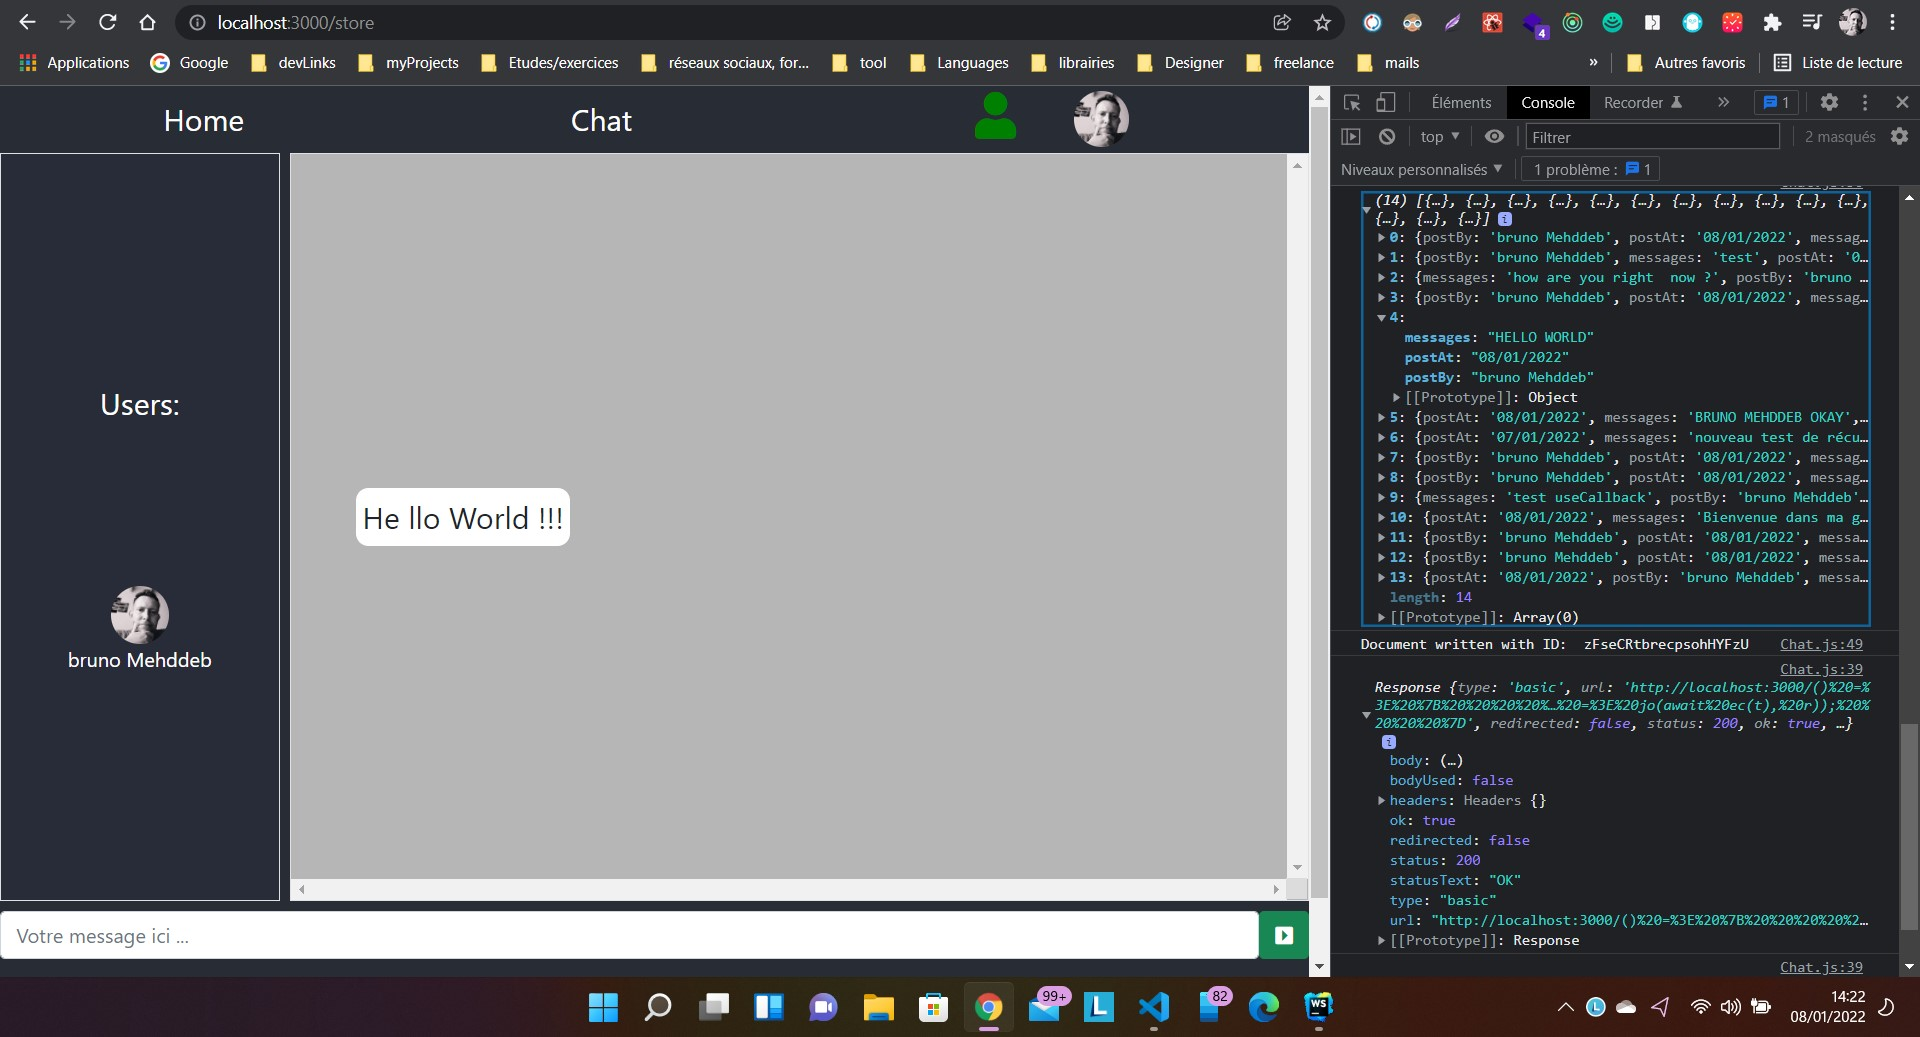
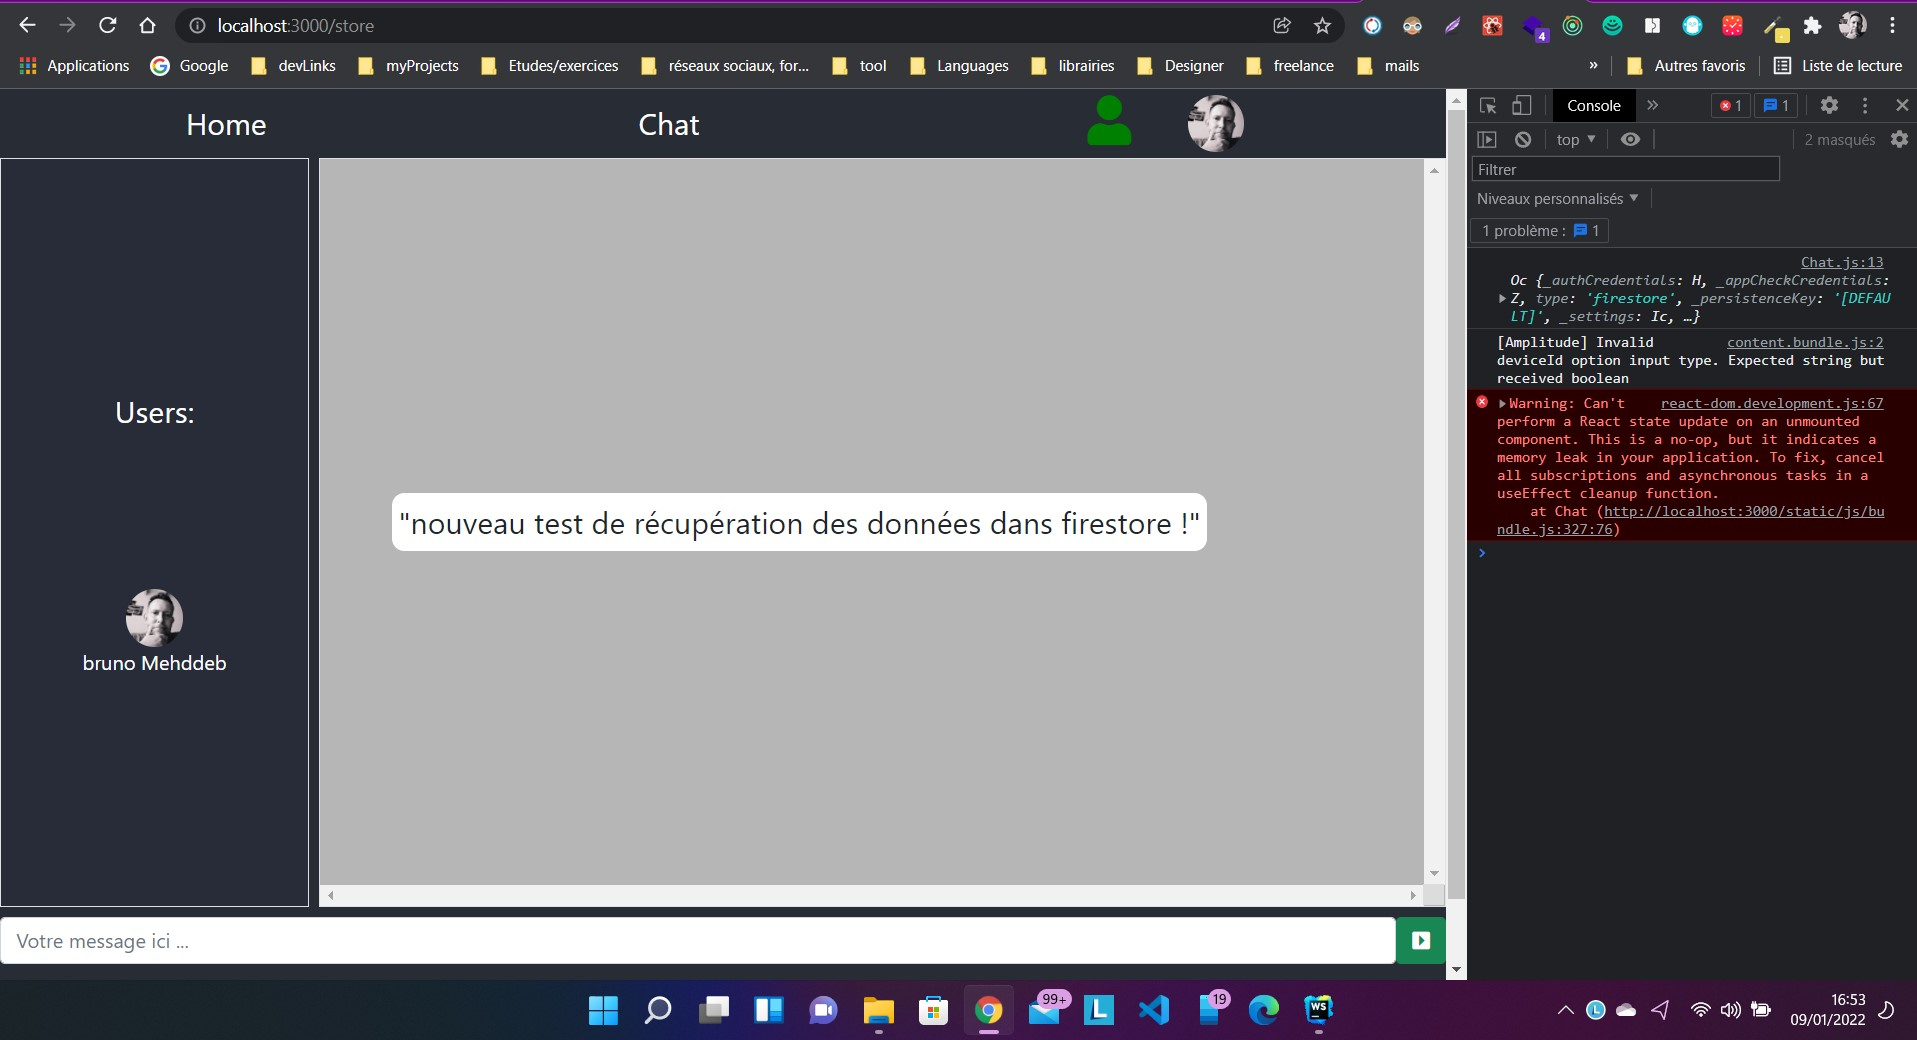
request all message once okay

Changed region(s): [[0.0, 0.0, 1.0, 1.0], [0.0308, 0.3703, 0.0923, 0.432]]

diff --git a/src/components/chat/Chat.js b/src/components/chat/Chat.js
@@ -1,42 +1,45 @@
-import React, {useCallback, useEffect, useRef, useState} from "react";
+import React, {useEffect, useRef, useState} from "react";
 import styleChat from "./chat.module.scss"
 import {useDispatch, useSelector} from "react-redux";
 import {writingMessageAction} from "../../store/action/writingMessageAction";
-import { initializeApp } from 'firebase/app';
+import {initializeApp} from 'firebase/app';
 import {getAuth, onAuthStateChanged} from "firebase/auth";
-import {getFirestore, collection, addDoc, getDoc, getDocs, setDoc, doc, onSnapshot} from "firebase/firestore";
+import {addDoc, collection, getDocs, getFirestore} from "firebase/firestore";
 import {firebaseConfig} from "../../firebase/firebaseConfig";
 
 
 const app = initializeApp(firebaseConfig)
-const db = getFirestore(app)
-console.log(db)
+const firestore = getFirestore()
+console.log(firestore)
 const auth = getAuth()
 
 
-// Component
+// Chat Component
 export default function Chat(props) {
     const dispatch = useDispatch()
-    const messageSelector = useSelector(state => state.post)
+    // const messageSelector = useSelector(state => state.post)
     const ref = useRef("")
     const [userName, setUserName] = useState("")
     const [userPhoto, setUserPhoto] = useState("")
     const [userConnected, setUserConnected] = useState()
+    const [messageDb, setMessageDb] = useState("")
 
-    async function getMessages(){
-        const messages = collection(db, "messages")
-        const messagesSnapshot = await getDocs(messages)
-        const messagesList = messagesSnapshot.docs.map((doc)=>{doc.data()})
-        return messagesList
+    const messageStore = collection(firestore, "messages")
+    async function getPost(){
+        const querySnapshot = await getDocs(messageStore)
+        return querySnapshot.forEach((snap) => {
+            setMessageDb(JSON.stringify(snap.data().messages))
+        })
     }
 
+
     // database Storage
-    async function addPost(message) {
+    async function addPost(newMessage) {
         try {
-            const docRef = await addDoc(collection(db, "messages"), {
+            const docRef = await addDoc(collection(firestore, "messages"), {
                 postAt: new Date().toLocaleDateString(),
                 postBy: userName,
-                messages: message
+                messages: newMessage
             });
             console.log("Document written with ID: ", docRef.id);
         } catch (e) {
@@ -44,7 +47,19 @@ export default function Chat(props) {
         }
     }
 
+    onAuthStateChanged(auth, (user) => {
+        if (user !== null) {
+            const displayName = user.displayName;
+            const email = user.email;
+            const photoURL = user.photoURL;
+            const emailVerified = user.emailVerified;
+            setUserConnected(emailVerified)
+            setUserName(displayName)
+            setUserPhoto(photoURL)
+        }
+    });
 
+    useEffect(getPost, [])
 
 
     return <div className={styleChat.chatHeader}>
@@ -58,7 +73,7 @@ export default function Chat(props) {
                         </section> : ""}
                 </div>
                 <div id={styleChat.screenMessages} className={"card border ms-1 mb-2 w-100 text-dark overflow-scroll rounded-0"}>
-                    <span className={styleChat.post}>{/* liste des messages ici */}</span>
+                    <span className={styleChat.post}>{/* liste des messageStore ici */ messageDb}</span>
                 </div>
             </div>
             <div className={"w-100"}>
